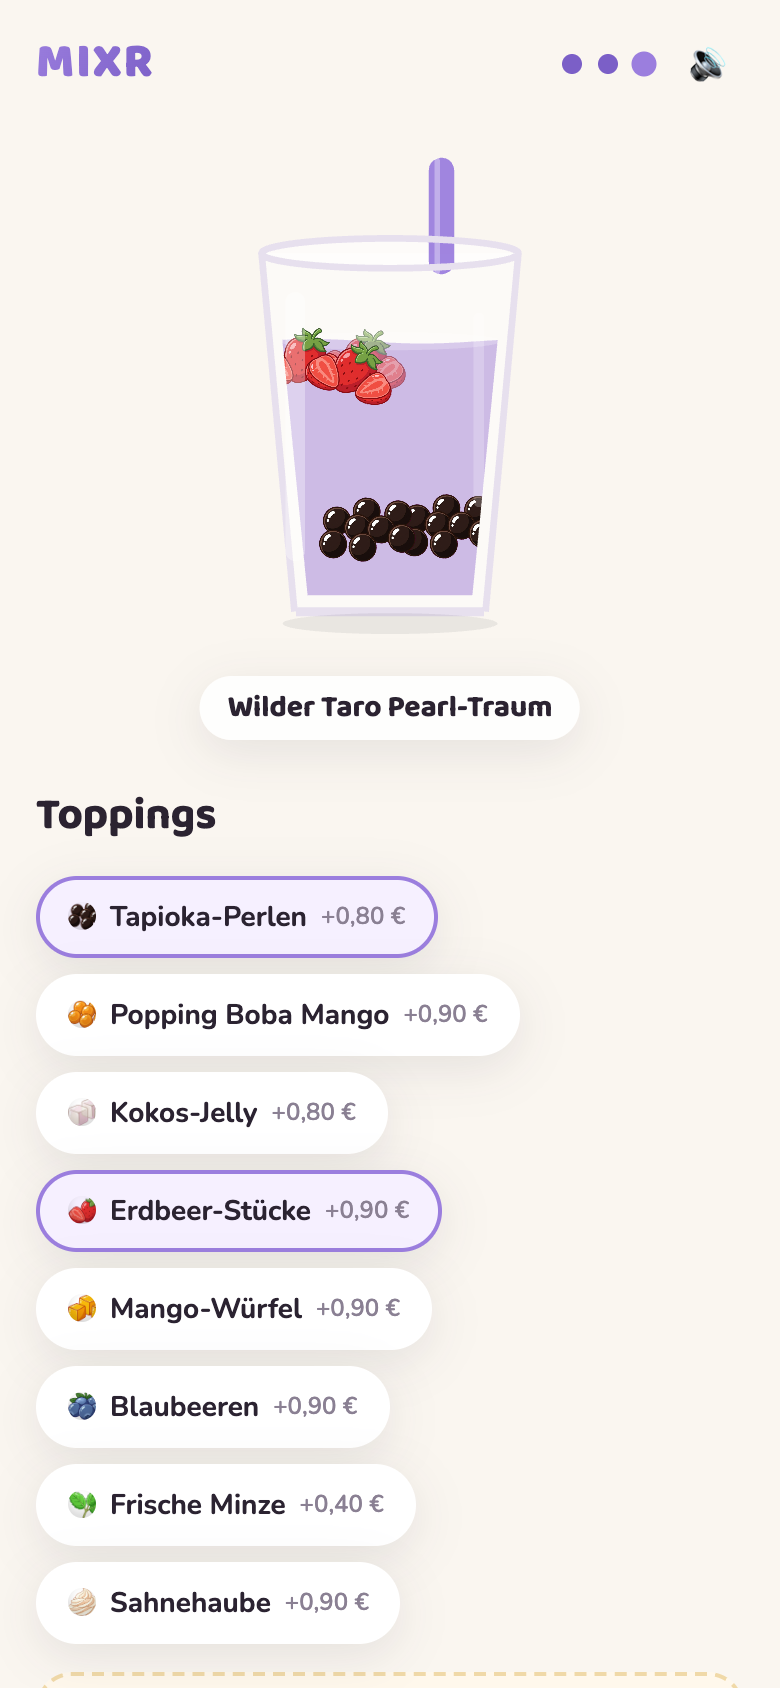
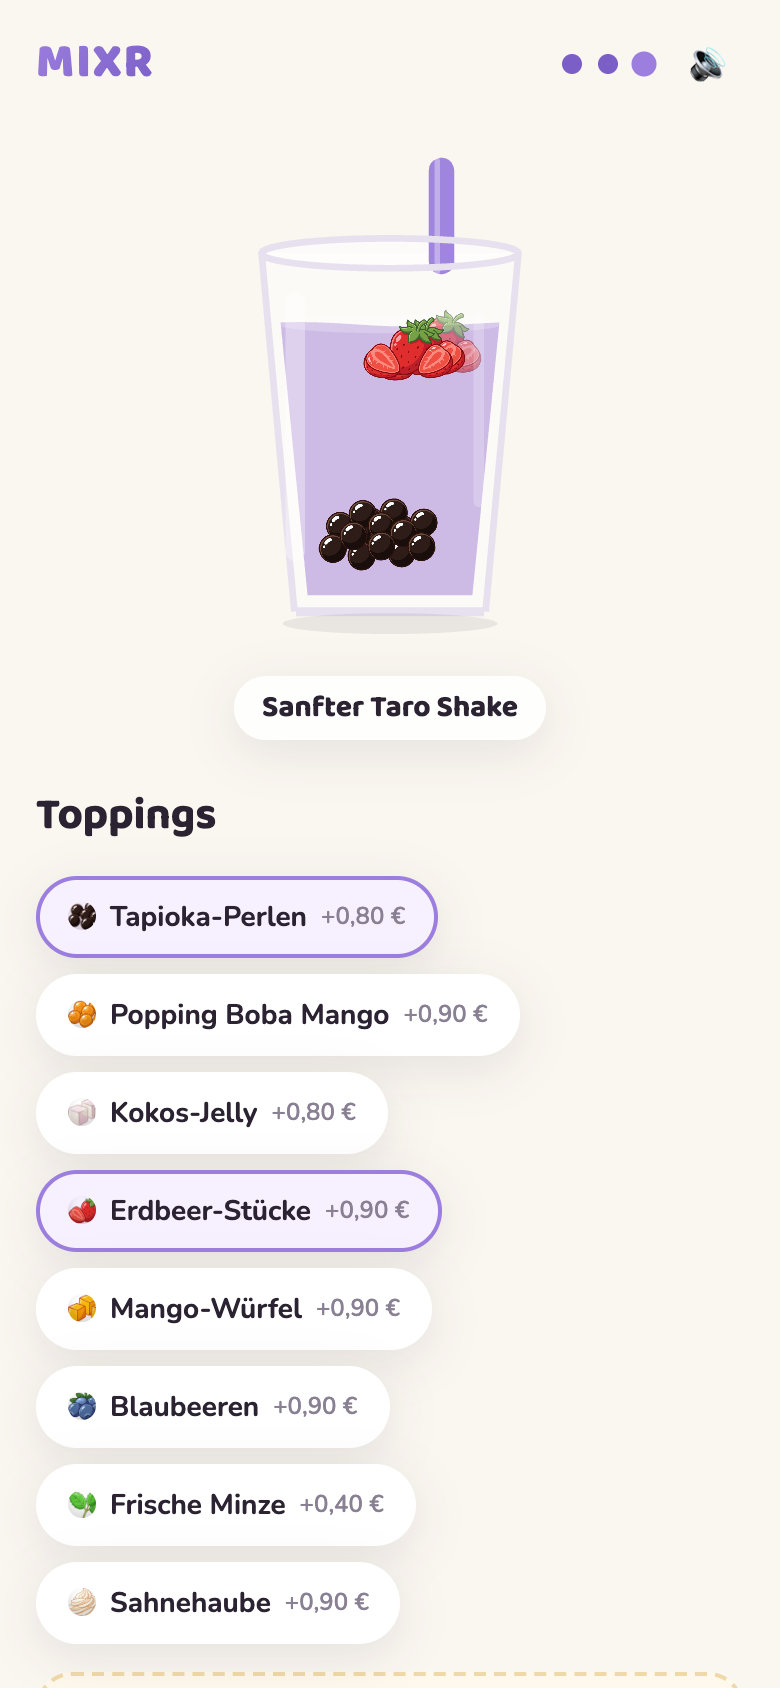
Phase 5: Ship — Deploy (GitHub Os-oe/mixr + Vercel + mixr.demo.osai.solutions) + Boot-Race-Fix
Live-E2E deckte Race auf: Start-Tap vor boot()-Ende war ein No-op (lokal
unsichtbar, ueber Netz real). UI bindet jetzt sofort, Start awaitet ready.
E2E-Suite laeuft via E2E_BASE_URL gegen die Live-URL (menu.json-fs-Test wird
dort uebersprungen, Admin-Override-Test deckt den Pfad ab).

diff --git a/src/main.js b/src/main.js
@@ -521,19 +521,22 @@ async function preloadSprites() {
   await Promise.all(jobs);
 }
 
-async function boot() {
-  state.menu = await api.menu();
-  [cup] = await Promise.all([CupScene.create($('#stage')), preloadSprites()]);
-  window.__mixr = { state, cup, show, api }; // deterministic test hook
+// UI is bound immediately; slow networks may tap "start" before menu/sprites
+// finished loading — the handler awaits `ready` instead of being a no-op.
+let readyResolve;
+const ready = new Promise(r => { readyResolve = r; });
 
-  cup.onFx = (name) => audio.play(name);
+function bindUI() {
   const soundBtn = $('#sound-toggle');
-  soundBtn.hidden = false;
   soundBtn.textContent = audio.enabled ? '🔊' : '🔇';
   soundBtn.onclick = () => { soundBtn.textContent = audio.toggle() ? '🔊' : '🔇'; audio.play('tap'); };
 
-  $('#btn-start').onclick = () => {
+  $('#btn-start').onclick = async () => {
     audio.ensure(); // first user gesture unlocks audio (mobile autoplay policy)
+    const btn = $('#btn-start');
+    btn.disabled = true;
+    await ready;
+    btn.disabled = false;
     haptic();
     state.attractRunning = false;
     cup.reset();
@@ -570,6 +573,16 @@ async function boot() {
     a.href = url; a.download = 'mixr-drink.png'; a.click();
   };
 
+}
+
+async function boot() {
+  bindUI();
+  state.menu = await api.menu();
+  [cup] = await Promise.all([CupScene.create($('#stage')), preloadSprites()]);
+  window.__mixr = { state, cup, show, api }; // deterministic test hook
+  cup.onFx = (name) => audio.play(name);
+  $('#sound-toggle').hidden = false;
+
   // poll menu so sold-out toggles from /admin apply live mid-flow
   menuPollTimer = setInterval(async () => {
     try {
@@ -582,6 +595,7 @@ async function boot() {
 
   show('attract');
   attractLoop();
+  readyResolve();
 }
 
 boot().catch((e) => {

diff --git a/playwright.config.js b/playwright.config.js
@@ -1,12 +1,15 @@
 import { defineConfig, devices } from '@playwright/test';
 
+// E2E_BASE_URL=https://mixr.demo.osai.solutions npx playwright test -> live E2E
+const LIVE = process.env.E2E_BASE_URL;
+
 export default defineConfig({
   testDir: './tests',
   timeout: 45000,
   retries: 0,
   workers: 1, // shared in-memory API state -> serial
   use: {
-    baseURL: 'http://localhost:8787',
+    baseURL: LIVE || 'http://localhost:8787',
     browserName: 'chromium',
     viewport: { width: 390, height: 844 },
     isMobile: true,
@@ -19,7 +22,7 @@ export default defineConfig({
       args: ['--use-angle=metal', '--enable-gpu', '--ignore-gpu-blocklist']
     }
   },
-  webServer: {
+  webServer: LIVE ? undefined : {
     command: 'npm run build && node server/dev.js --serve-dist',
     port: 8787,
     reuseExistingServer: false,

diff --git a/tests/flow.spec.js b/tests/flow.spec.js
@@ -110,6 +110,7 @@ test('sold-out toggle via admin API applies live in guest flow', async ({ page, 
 });
 
 test('menu.json edit (sold-out) is served live without code change', async ({ request }) => {
+  test.skip(!!process.env.E2E_BASE_URL, 'local-fs test — covered by admin-override test against live');
   const original = fs.readFileSync(MENU, 'utf8');
   try {
     const menu = JSON.parse(original);